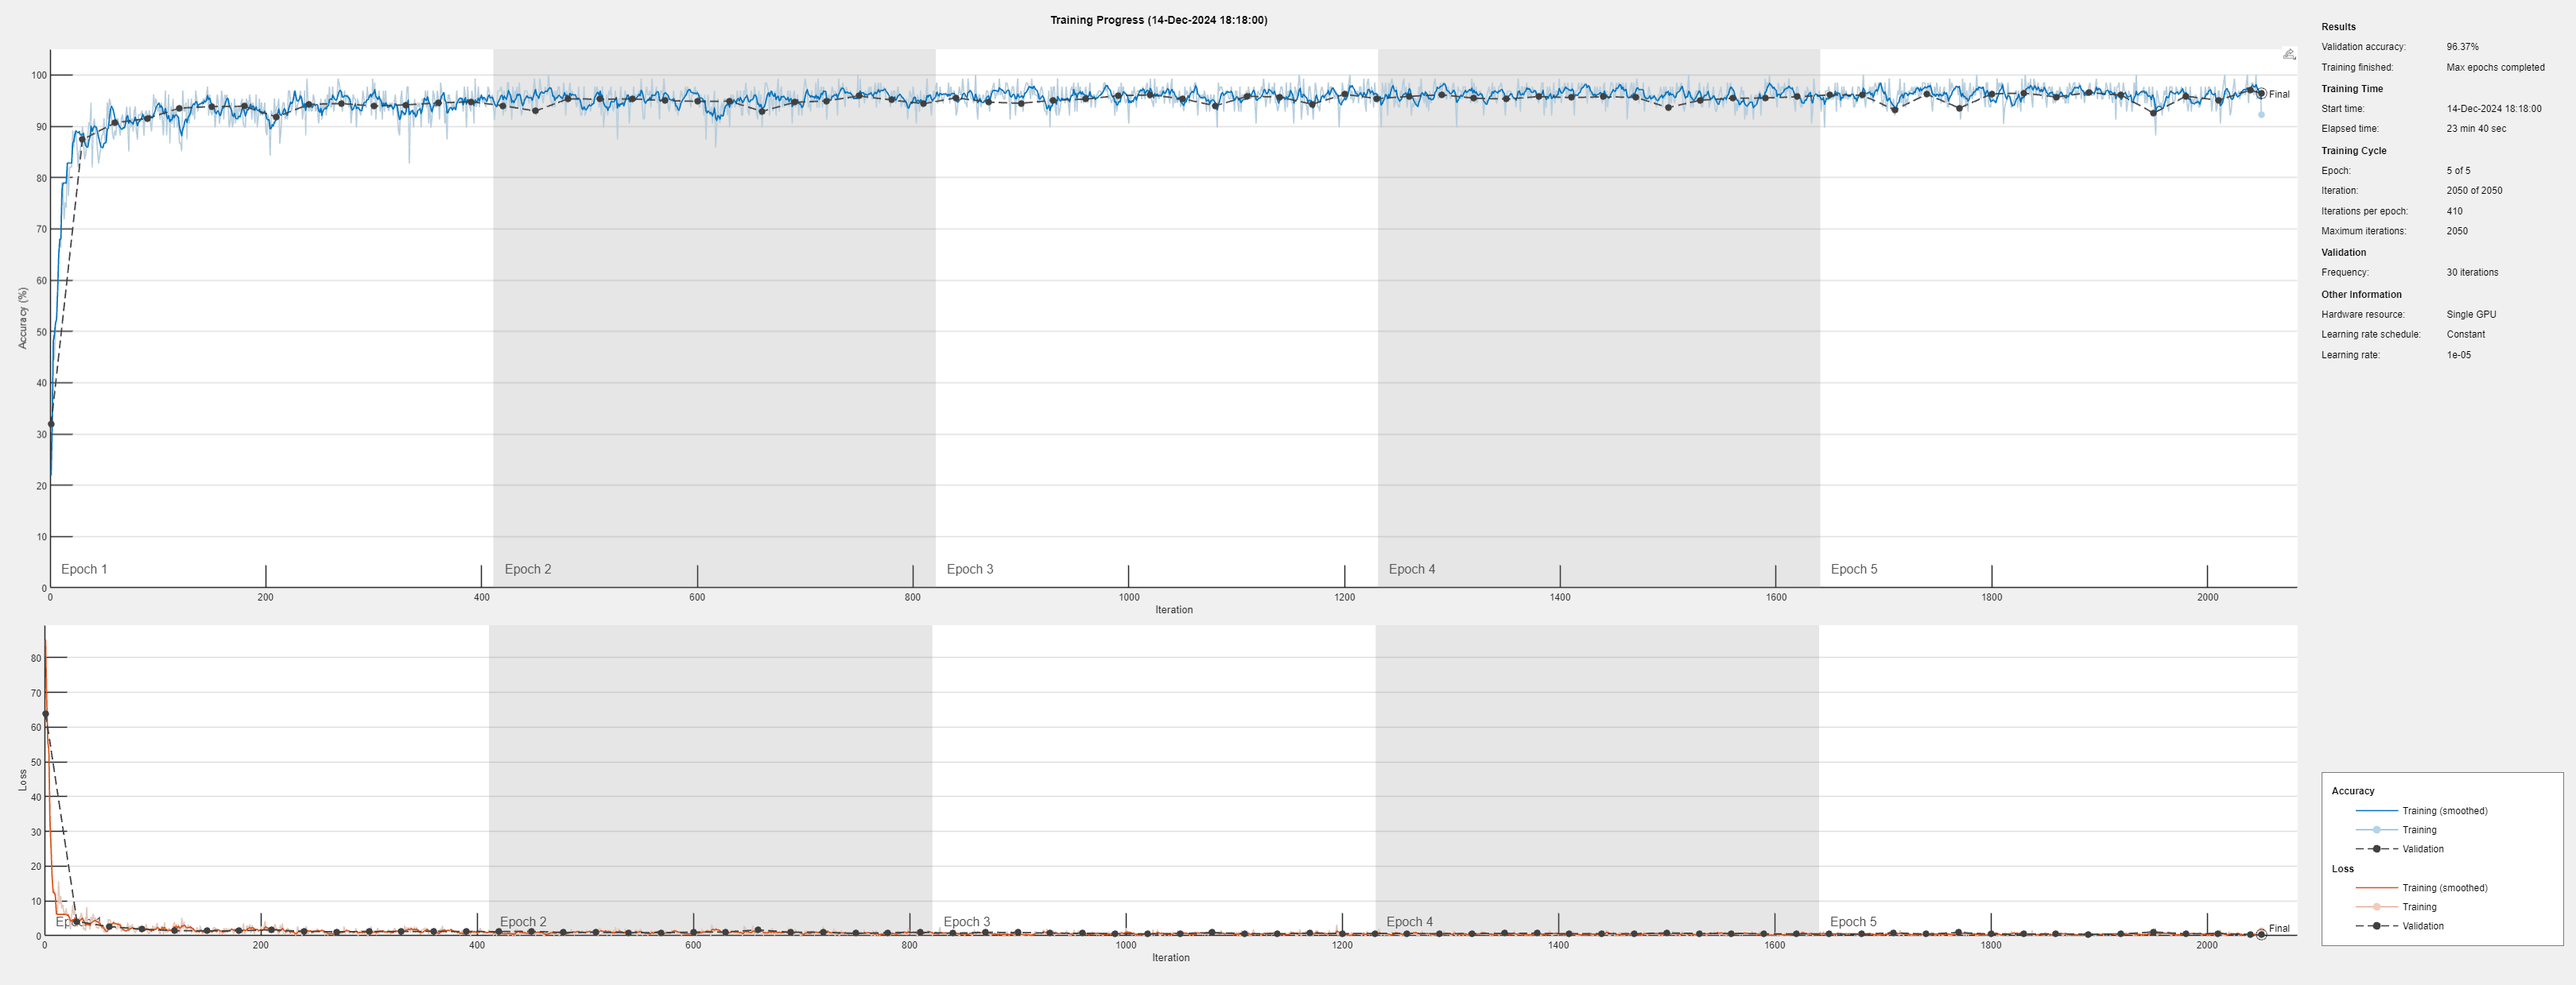
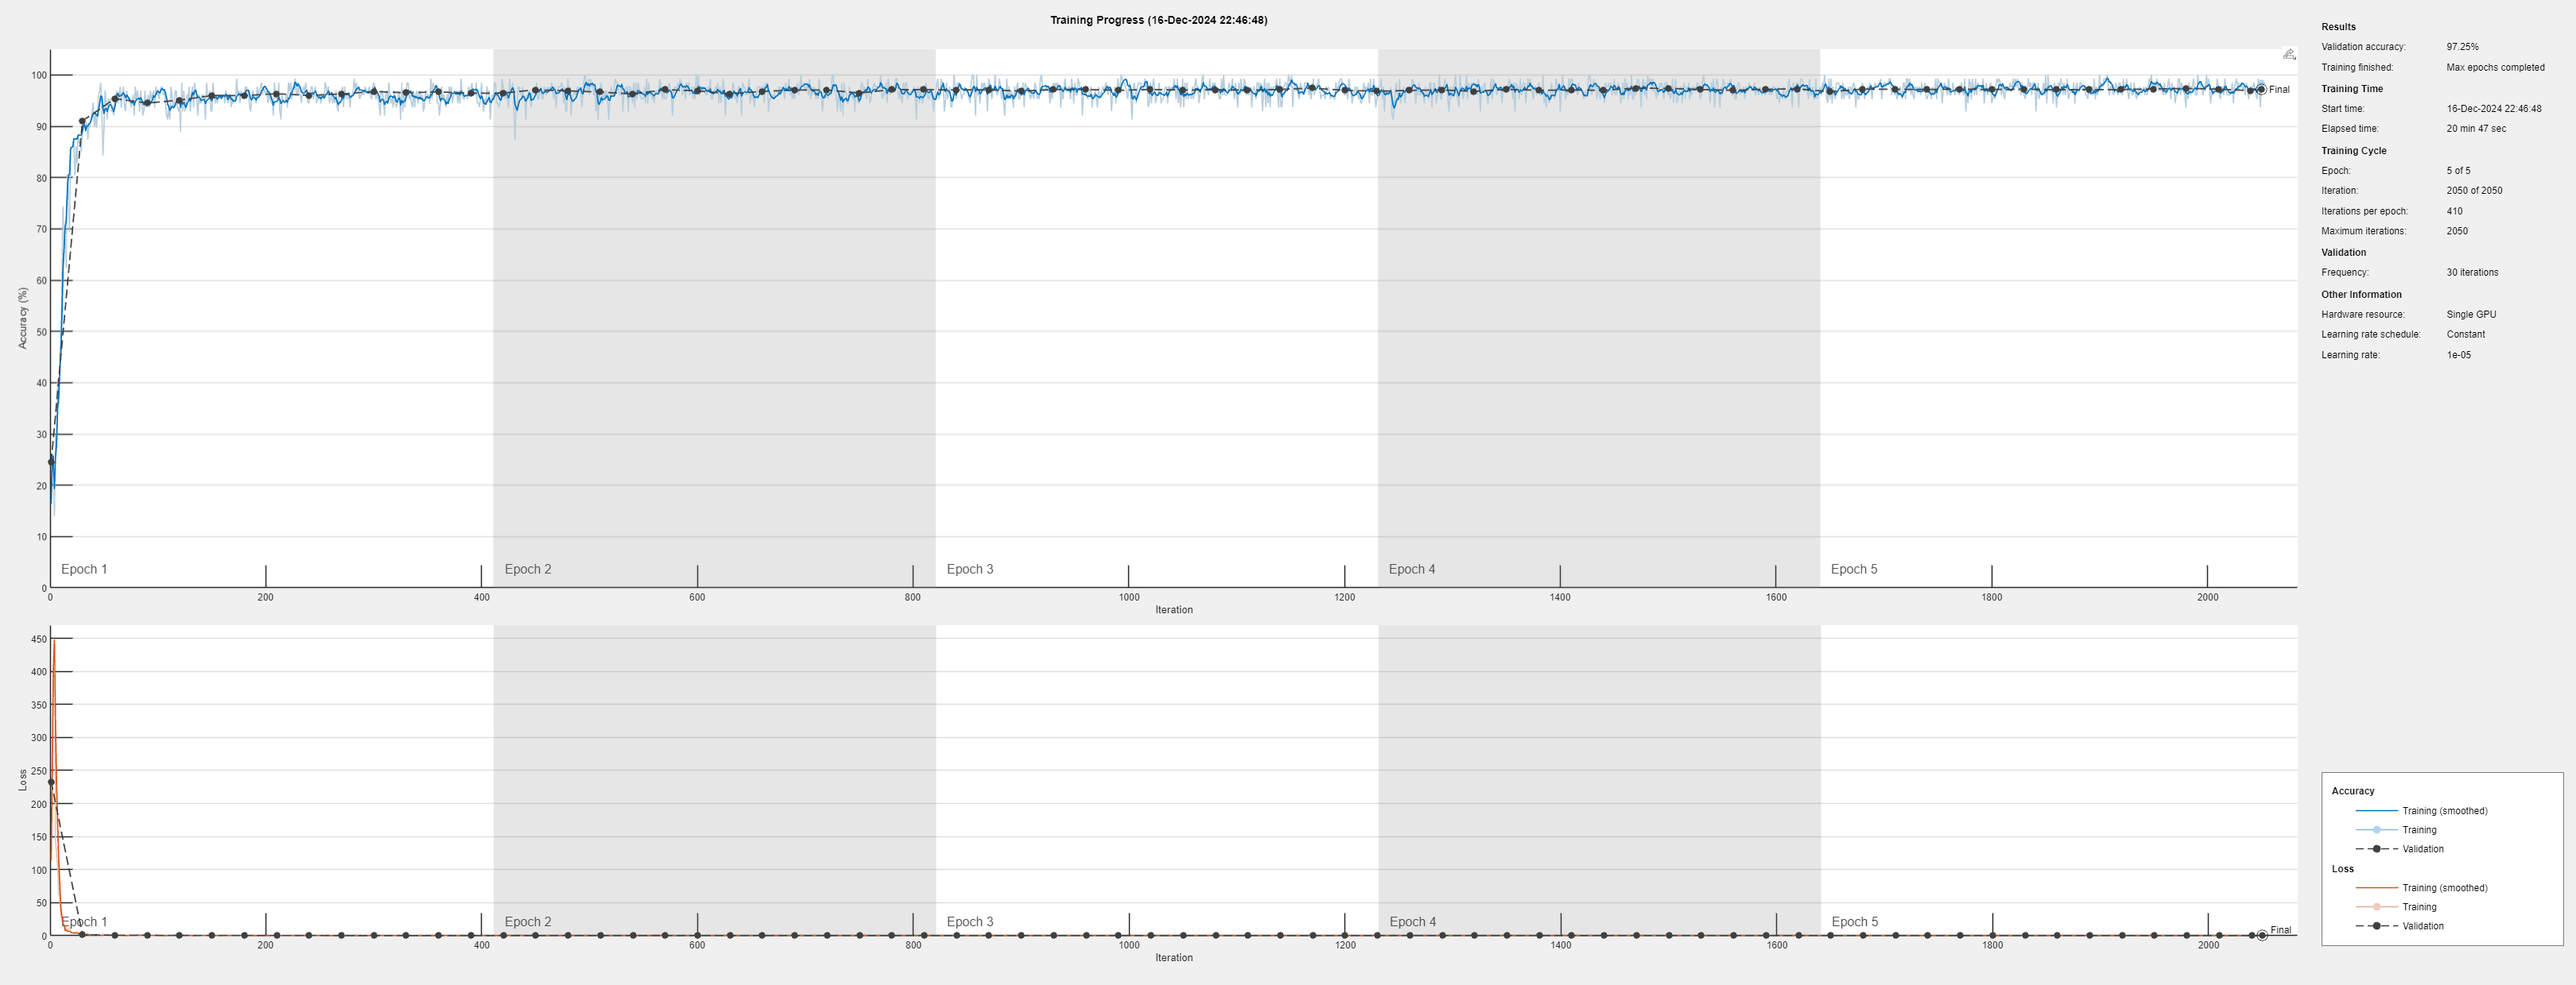
fcl_poprawiony

diff --git a/test.m b/test.m
@@ -24,11 +24,11 @@ layers = [
     
     flattenLayer   % Spłaszczenie do wektor
     
-    fullyConnectedLayer(1024)
-    reluLayer
+    % fullyConnectedLayer(1024)
+    % reluLayer
 
-    fullyConnectedLayer(512)
-    reluLayer
+    % fullyConnectedLayer(512)
+    % reluLayer
 
     fullyConnectedLayer(256)
     reluLayer
@@ -39,7 +39,7 @@ layers = [
 
 analyzeNetwork(layers);
 
-options = trainingOptions("adam", ...
+options = trainingOptions("sgdm", ...
     InitialLearnRate=0.00001, ...
     MaxEpochs=5, ...
     Shuffle="every-epoch", ...
